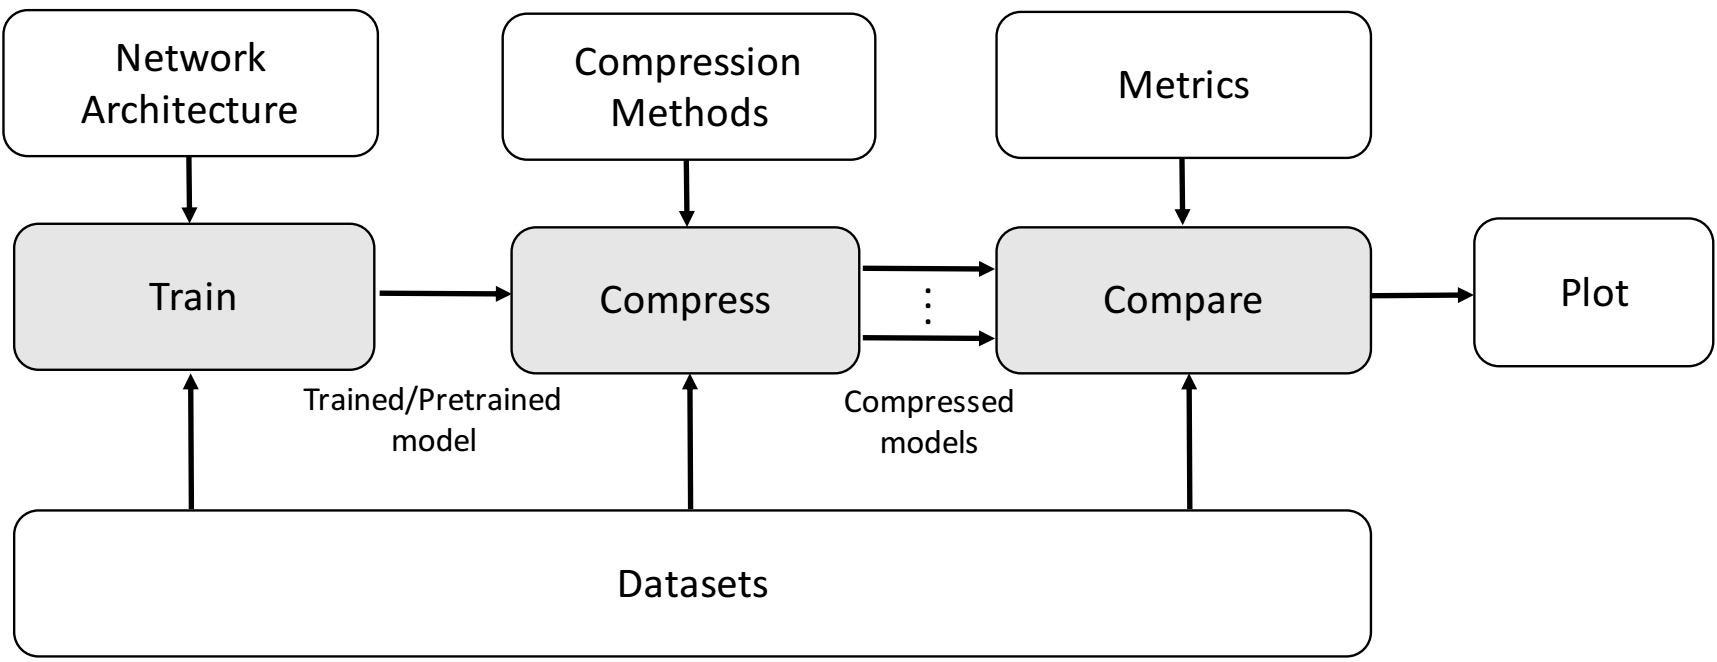
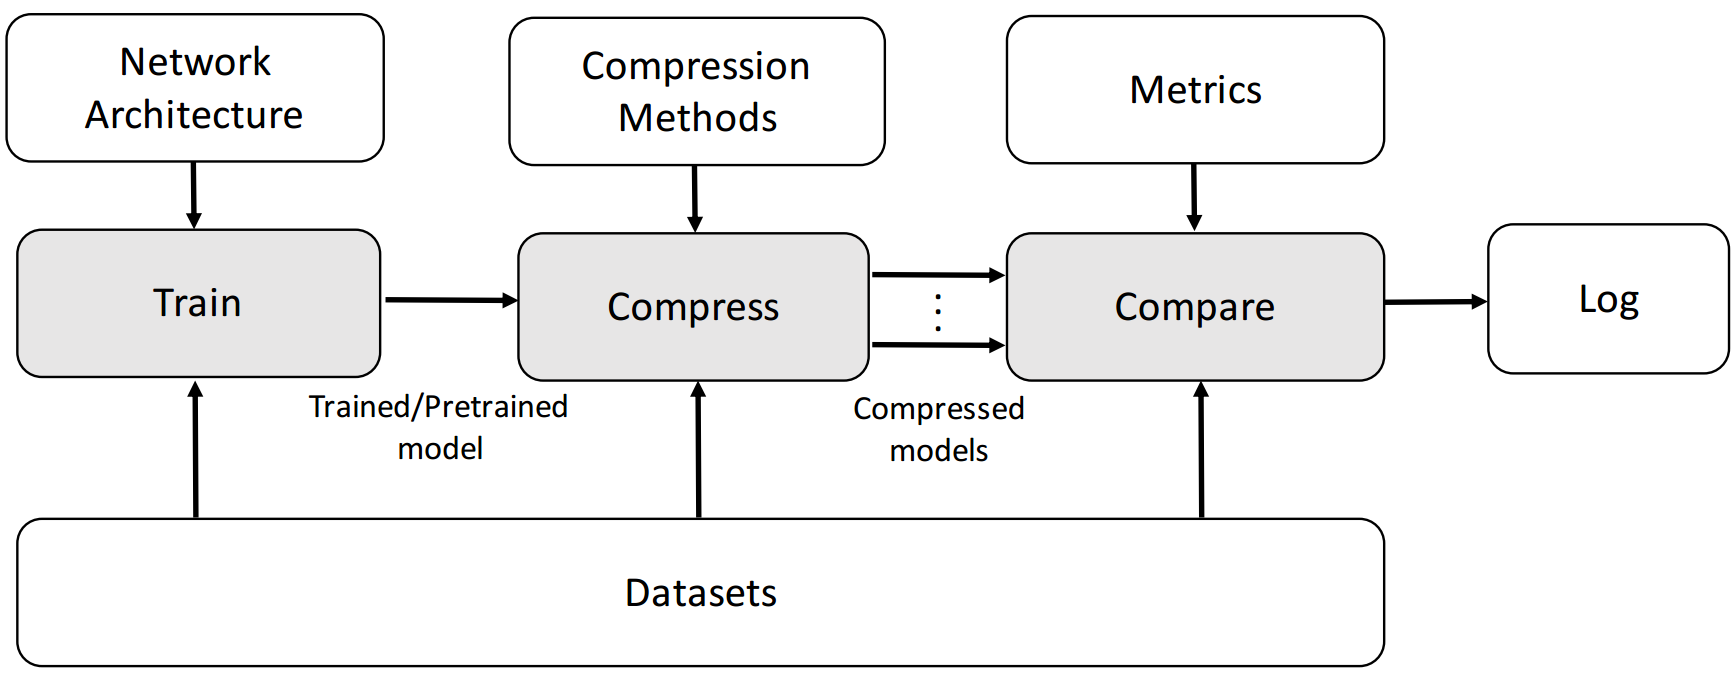
Updated readme diagram

diff --git a/scripts/object_classificaiton/compare.py b/scripts/object_classificaiton/compare.py
@@ -6,14 +6,17 @@ sys.path.append('../../')
 from utils.common import set_random_seeds, set_cuda
 from utils.dataloader import pytorch_dataloader
 from utils.model import model_selection, train_model, save_model
+from utils.evaluation import evaluate_model
+from utils.results_manager import log
 from metrics.accuracy.topAccuracy import top1Accuracy
 from metrics.speed.latency import inference_latency
 
-SEED_NUMBER              = 0
-USE_CUDA                 = True
 
-DATASET_NAME             = "TinyImageNet" # Options: "CIFAR10" "CIFAR100" "TinyImageNet"  "ImageNet"
-NUM_CLASSES              = 1000 # Number of classes in dataset
+SEED_NUMBER              = 0
+USE_CUDA                 = False
+
+DATASET_NAME             = "CIFAR10" # Options: "CIFAR10" "CIFAR100" "TinyImageNet"  "ImageNet"
+NUM_CLASSES              = 10 # Number of classes in dataset
 
 MODEL_CHOICE             = "resnet" # Option:"resnet" "vgg"
 MODEL_VARIANT            = "resnet18" # Common Options: "resnet18" "vgg11" For more options explore files in models to find the different options.
@@ -22,11 +25,11 @@ MODEL_DIR                = "../../models/" + MODEL_CHOICE
 MODEL_SELECTION_FLAG     = 2 # create an untrained model = 0, start from a pytorch trained model = 1, start from a previously saved local model = 2
 
 UNCOMPRESSED_MODEL_FILENAME     = MODEL_VARIANT +"_"+DATASET_NAME+str(NUM_CLASSES)+".pt"
-UNCOMPRESSED_MODEL_FILEPATH     = os.path.join(MODEL_DIR, SAVED_MODEL_FILENAME)
+UNCOMPRESSED_MODEL_FILEPATH     = os.path.join(MODEL_DIR, UNCOMPRESSED_MODEL_FILENAME)
 
-COMPRESSION_TECHNIQUES_LIST  = ["PTQ", "QAT", "GUP_L1", "GUP_R"]      # Option: "PTQ" "QAT" "GUP_R" "GUP_L1"
+COMPRESSION_TECHNIQUES_LIST  = ["GUP_L1", "GUP_R"]#,"PTQ", "QAT"]      # Option: "PTQ" "QAT" "GUP_R" "GUP_L1"
 
-EVALUATION_METRICS_LIST = [] 
+EVALUATION_METRICS_LIST = ["TOP1accuracy", "Latency"] 
 
 # Option:
 # == Accuracy: "TOP1accuracy" "TOP5accuracy" "mAP" "Precision" "Recall" "F1Score"
@@ -49,18 +52,30 @@ def main():
     uncompressed_model = model_selection(model_selection_flag=MODEL_SELECTION_FLAG, model_dir=MODEL_DIR, model_choice=MODEL_CHOICE, model_variant=MODEL_VARIANT, saved_model_filepath=UNCOMPRESSED_MODEL_FILEPATH, num_classes=NUM_CLASSES, device=device)
     print("Progress: Model has been setup.")
 
-    
-    for compression_technique in COMPRESSION_TECHNIQUES_LIST:
-        compressed_model_filename        = compression_technique+"_"+MODEL_VARIANT +"_"+DATASET_NAME+str(NUM_CLASSES)+".pt"
-        compressed_model_filepath        = os.path.join(MODEL_DIR, compressed_model_filename)
-        compressed_model = model_selection(model_selection_flag=MODEL_SELECTION_FLAG, model_dir=MODEL_DIR, model_choice=MODEL_CHOICE, model_variant=MODEL_VARIANT, saved_model_filepath=compressed_model_filepath, num_classes=NUM_CLASSES, device=device)
+    results_log = log()
+    for evaluation_metric in EVALUATION_METRICS_LIST:
+        print("====== EVALUATION METRIC: ", evaluation_metric)
+        # For Uncompressed model
+        print("=== Compression Technique: None - Uncompressed model")
+        value = evaluate_model(uncompressed_model, evaluation_metric, device, test_loader)
+        results_log.append(MODEL_VARIANT, DATASET_NAME, evaluation_metric, "None", value)
+        
+        # For compressed model
+        for compression_technique in COMPRESSION_TECHNIQUES_LIST:
+            print("=== Compression Technique: ", compression_technique)
+            compressed_model_filename        = compression_technique+"_"+MODEL_VARIANT +"_"+DATASET_NAME+str(NUM_CLASSES)+".pt"
+            compressed_model_filepath        = os.path.join(MODEL_DIR, compressed_model_filename)
+            compressed_model = model_selection(model_selection_flag=MODEL_SELECTION_FLAG, model_dir=MODEL_DIR, model_choice=MODEL_CHOICE, model_variant=MODEL_VARIANT, saved_model_filepath=compressed_model_filepath, num_classes=NUM_CLASSES, device=device)
+            
+            # Evaluate model
+            value = evaluate_model(compressed_model, evaluation_metric, device, test_loader)
+            
+            # Log
+            results_log.append(MODEL_VARIANT, DATASET_NAME, evaluation_metric, compression_technique, value)
 
-    # Evaluate model
-    _,eval_accuracy     = top1Accuracy(model=model, test_loader=test_loader, device=device, criterion=None)
-    eval_speed_latency = inference_latency(model=model, device=device, input_size=(1,3,32,32), num_samples=100)
+    # Save output log results
+    results_log.write_file()
 
-    print("FP32 evaluation accuracy: {:.3f}".format(eval_accuracy))
-    print("FP32 CPU Inference Latency: {:.2f} ms / sample".format(eval_speed_latency * 1000))
 
 if __name__ == "__main__":
 

diff --git a/scripts/object_classificaiton/train.py b/scripts/object_classificaiton/train.py
@@ -12,22 +12,22 @@ from metrics.speed.latency import inference_latency
 SEED_NUMBER              = 0
 USE_CUDA                 = True
 
-DATASET_NAME             = "ImageNet" # Options: "CIFAR10" "CIFAR100" "TinyImageNet"  "ImageNet"
-NUM_CLASSES              = 1000 # Number of classes in dataset
+DATASET_NAME             = "CIFAR10" # Options: "CIFAR10" "CIFAR100" "TinyImageNet"  "ImageNet"
+NUM_CLASSES              = 10 # Number of classes in dataset
 
 MODEL_CHOICE             = "resnet" # Option:"resnet" "vgg"
-MODEL_VARIANT            = "resnet50" # Common Options: "resnet50" "resnet18" "vgg11" For more options explore files in models to find the different options.
+MODEL_VARIANT            = "resnet18" # Common Options: "resnet50" "resnet18" "vgg11" For more options explore files in models to find the different options.
 
 MODEL_DIR                = "../../models/" + MODEL_CHOICE
-MODEL_SELECTION_FLAG     = 1 # create an untrained model = 0, start from a pytorch trained model = 1, start from a previously saved local model = 2
+MODEL_SELECTION_FLAG     = 0 # create an untrained model = 0, start from a pytorch trained model = 1, start from a previously saved local model = 2
 
 SAVED_MODEL_FILENAME     = MODEL_VARIANT +"_"+DATASET_NAME+str(NUM_CLASSES)+".pt"
 SAVED_MODEL_FILEPATH     = os.path.join(MODEL_DIR, SAVED_MODEL_FILENAME)
 
 TRAINED_MODEL_FILENAME   = MODEL_VARIANT +"_"+DATASET_NAME+str(NUM_CLASSES)+".pt"
 
-NUM_EPOCHS               = 10
-LEARNING_RATE            = 1e-2
+NUM_EPOCHS               = 30
+LEARNING_RATE            = 1e-2 # for imagenet use 1e-5, otherwise 1e-2
 
 def main():
     # Fix seeds to allow for repeatable results 
@@ -54,10 +54,10 @@ def main():
 
     # Evaluate model
     _,eval_accuracy     = top1Accuracy(model=model, test_loader=test_loader, device=device, criterion=None)
-    eval_speed_latency = inference_latency(model=model, device=device, input_size=(1,3,32,32), num_samples=100)
+    # eval_speed_latency = inference_latency(model=model, device=device, test_loader=test_loader)#input_size=(1,3,32,32), num_samples=100)
 
     print("FP32 evaluation accuracy: {:.3f}".format(eval_accuracy))
-    print("FP32 CPU Inference Latency: {:.2f} ms / sample".format(eval_speed_latency * 1000))
+    # print("FP32 CPU Inference Latency: {:.2f} ms / sample".format(eval_speed_latency * 1000))
 
 if __name__ == "__main__":
 

diff --git a/utils/results_manager.py b/utils/results_manager.py
@@ -1,0 +1,33 @@
+import time
+import os
+
+class log():
+    def __init__(self):
+        self.modelName_array               = []
+        self.datasetName_array             = []
+        self.evaluationMetric_array        = []
+        self.compressionTechnique_array    = []
+        self.value_array                   = []
+
+    def append(self,modelName,datasetName,evaluationMetric,compressionTechnique,value):
+
+        self.modelName_array.append(modelName)
+        self.datasetName_array.append(datasetName)
+        self.evaluationMetric_array.append(evaluationMetric)
+        self.compressionTechnique_array.append(compressionTechnique)
+        self.value_array.append(value)
+
+
+    def write_file(self, output_folder="output_results", file_name=time.strftime("%Y%m%d-%H%M%S")+".txt"):
+        # Folder "results" if not already there
+        # output_folder = "tests_logs"
+        if not os.path.exists(output_folder):
+            os.makedirs(output_folder)
+
+        file_path = os.path.join(output_folder, file_name)
+        with open(file_path, 'w') as log_file: 
+            log_file.write('modelName ,datasetName, evaluationMetric, compressionTechnique, value_array\n')
+            for i in range(len(self.modelName_array)):
+                log_file.write('%s, %s, %s, %s, %3.3f \n' %\
+                    (self.modelName_array[i],self.datasetName_array[i], self.evaluationMetric_array[i], self.compressionTechnique_array[i], self.value_array[i]))
+        print('Log file SUCCESSFULLY generated and saved to '+output_folder+"/"+file_name)

diff --git a/utils/evaluation.py b/utils/evaluation.py
@@ -1,0 +1,49 @@
+from metrics.accuracy.topAccuracy import top1Accuracy
+from metrics.speed.latency import inference_latency
+# from metrics.size import model_size 
+# from metrics.energy import energy
+import numpy as np
+def evaluate_model(model, evaluation_metric, device, test_loader=""):
+    if evaluation_metric == "TOP1accuracy":
+        _ , evaluation_output = top1Accuracy(model=model, test_loader=test_loader, device=device, criterion=None)
+        evaluation_output=evaluation_output.item()#np.float(evaluation_output)
+        print("Top1-Accuracy = ", evaluation_output)
+
+    elif evaluation_metric == "mAP":
+        pass
+
+    elif evaluation_metric == "Precision":
+        pass
+
+    elif evaluation_metric == "Recall":
+        pass
+
+    elif evaluation_metric == "F1Score":
+        pass
+
+    elif evaluation_metric == "MemorySize":
+        pass 
+
+    elif evaluation_metric == "RAMutilisation":
+        pass
+
+    elif evaluation_metric == "Latency":
+        evaluation_output = inference_latency(model=model, device=device,test_loader=test_loader)
+        print("CPU Inference Latency: {:.2f} ms / sample".format(evaluation_output * 1000))
+
+    elif evaluation_metric == "MAC":
+        pass
+
+    elif evaluation_metric == "FLOPS":
+        pass 
+
+    elif evaluation_metric == "Energy":
+        pass 
+
+    elif evaluation_metric == "Power":
+        pass 
+
+    else:
+        raise Exception("ERROR: An unknown evaluation metric was selected.")
+    
+    return evaluation_output

diff --git a/utils/model.py b/utils/model.py
@@ -8,6 +8,8 @@ import torch.optim as optim
 
 from metrics.accuracy.topAccuracy import top1Accuracy
 
+import time
+
 
 def create_model(model_dir, model_choice, model_variant, num_classes=10):
     model_module_path = model_dir+"/"+model_choice+".py"
@@ -51,12 +53,12 @@ def train_model(model, train_loader, test_loader, device, learning_rate=1e-2, nu
 
     model.to(device)
 
-    # It seems that SGD optimizer is better than Adam optimizer for ResNet18 training on CIFAR10.
     optimizer = optim.SGD(model.parameters(), lr=learning_rate, momentum=0.9, weight_decay=1e-5)
-    # optimizer = optim.Adam(model.parameters(), lr=learning_rate, betas=(0.9, 0.999), eps=1e-08, weight_decay=0, amsgrad=False)
-
     
     for epoch in range(num_epochs):
+
+        # Time
+        t0 = time.time()
 
         # Training
         model.train()
@@ -89,7 +91,7 @@ def train_model(model, train_loader, test_loader, device, learning_rate=1e-2, nu
         # Evaluation
         model.eval()
         eval_loss, eval_accuracy = top1Accuracy(model=model, test_loader=test_loader, device=device, criterion=criterion)
-
-        print("Epoch: {:02d} Train Loss: {:.3f} Train Acc: {:.3f} Eval Loss: {:.3f} Eval Acc: {:.3f}".format(epoch, train_loss, train_accuracy, eval_loss, eval_accuracy))
+        t_end = time.time() - t0
+        print("Epoch: {:02d} Train Loss: {:.3f} Train Acc: {:.3f} Eval Loss: {:.3f} Eval Acc: {:.3f} Time(s) {:.4f}".format(epoch, train_loss, train_accuracy, eval_loss, eval_accuracy, t_end))
 
     return model

diff --git a/scripts/object_classificaiton/compress.py b/scripts/object_classificaiton/compress.py
@@ -14,13 +14,13 @@ from metrics.speed.latency import inference_latency
 SEED_NUMBER                      = 0
 USE_CUDA                         = True # When doing quantisation set to False as only works with CPU at the moment.
 
-DATASET_NAME                     = "TinyImageNet" # Options: "CIFAR10" "CIFAR100" "TinyImageNet"  "ImageNet"
-NUM_CLASSES                      = 1000 # Number of classes in dataset
+DATASET_NAME                     = "CIFAR10" # Options: "CIFAR10" "CIFAR100" "TinyImageNet"  "ImageNet"
+NUM_CLASSES                      = 10 # Number of classes in dataset
 
-MODEL_CHOICE                     = "vgg"   # Option:"resnet" "vgg"
-MODEL_VARIANT                    = "vgg11" # Common Options: "resnet18" "vgg11" For more options explore files in models to find the different options.
+MODEL_CHOICE                     = "resnet" # Option:"resnet" "vgg"
+MODEL_VARIANT                    = "resnet18" # Common Options: "resnet50" "resnet18" "vgg11" For more options explore files in models to find the different options.
 
-COMPRESSION_TECHNIQUE            = "GUP_R"      # Option: "PTQ" "QAT" "GUP_R" "GUP_L1"
+COMPRESSION_TECHNIQUE            = "GUP_L1"      # Option: "PTQ" "QAT" "GUP_R" "GUP_L1"
 
 MODEL_DIR                        = "../../models/" + MODEL_CHOICE
 

diff --git a/metrics/speed/latency.py b/metrics/speed/latency.py
@@ -1,9 +1,13 @@
 import torch
 import time
 
-def inference_latency(model,device,input_size=(1, 3, 32, 32),
-                    num_samples=100, num_warmups=10):
-
+def inference_latency(model,device,test_loader,
+                    num_samples=1000, num_warmups=10):
+    for test_images, test_labels in test_loader:  
+        sample_image_size = test_images[0].size()
+        input_size = (1,sample_image_size[0], sample_image_size[1], sample_image_size[2])
+        break
+    
     model.to(device)
     model.eval()
 

diff --git a/methods/QAT.py b/methods/QAT.py
@@ -7,7 +7,7 @@ from methods.common import QuantizedNN
 from utils.model import train_model
 
 
-def QAT(model, train_loader, test_loader, device, learning_rate=1e-3 , num_epochs=2):
+def QAT(model, train_loader, test_loader, device, learning_rate=1e-3 , num_epochs=10):
     # Move the model to CPU since static quantization does not support CUDA currently.
     cpu_device = torch.device("cpu:0")
     model.to(cpu_device)

diff --git a/methods/PTQ.py b/methods/PTQ.py
@@ -39,6 +39,7 @@ def PTQ(model, train_loader):
                     for sub_block_name, sub_block in basic_block.named_children():
                         if sub_block_name == "downsample":
                             torch.quantization.fuse_modules(sub_block, [["0", "1"]], inplace=True)
+        print("Model fused")
     except:
         print("Model did not fuse, so continuing without fusing.")
 

diff --git a/utils/dataloader.py b/utils/dataloader.py
@@ -11,7 +11,7 @@ from PIL import Image
 import json
 
 
-def pytorch_dataloader(dataset_name="",num_workers=8, train_batch_size=32, eval_batch_size=32):
+def pytorch_dataloader(dataset_name="",num_workers=16, train_batch_size=32, eval_batch_size=32):
 
     train_transform = transforms.Compose([
         transforms.RandomCrop(32, padding=4),

diff --git a/utils/compression.py b/utils/compression.py
@@ -1,4 +1,5 @@
 from methods.PTQ import PTQ
+from methods.QAT import QAT
 from methods.GUP import GUP
 
 def compress_model(model, compression_technique, device, train_loader, test_loader="",  learning_rate=1e-3 , num_epochs=10):

diff --git a/README.md b/README.md
@@ -6,15 +6,22 @@ NetZIP is an open-source benchmarking framework, based mainly on PyTorch, for ev
 ![NetZip Overview](readme/NetZIP_overview.png)
 
 ## List of currently supported frameworks:
-Neural Networks (see [methods](methods)) :
-- Object Classification: VGG, ResNet
+Neural Networks (see [models](models)) :
+- Object Classification: 
+	- VGG 
+	- ResNet
 
-- Object Detection: YOLOv5
+- Object Detection: 
+	- YOLOv5
 
 Compression Methods (see [methods](methods)):
-- Pruning: Global Unstructure Pruning Random (GUP_R), Global Unstructure Pruning lowest L1-norm (GUP_L1)
+- Pruning: 
+	- Global Unstructure Pruning Random (GUP_R), 
+	- Global Unstructure Pruning lowest L1-norm (GUP_L1)
 
-- Quantisation: Post Training Quantisation (PTQ), Quantisation Aware Training (QAT)
+- Quantisation: 
+	- Post Training Quantisation (PTQ)
+	- Quantisation Aware Training (QAT)
 
 NetZIP is developed for the community to grow and utilise it. If there are particular neural network frameworks or compression methods that one would like us to add or would like to contribute to the NetZIP repository, please open an issue for your request to be take further. Thanks.
 
